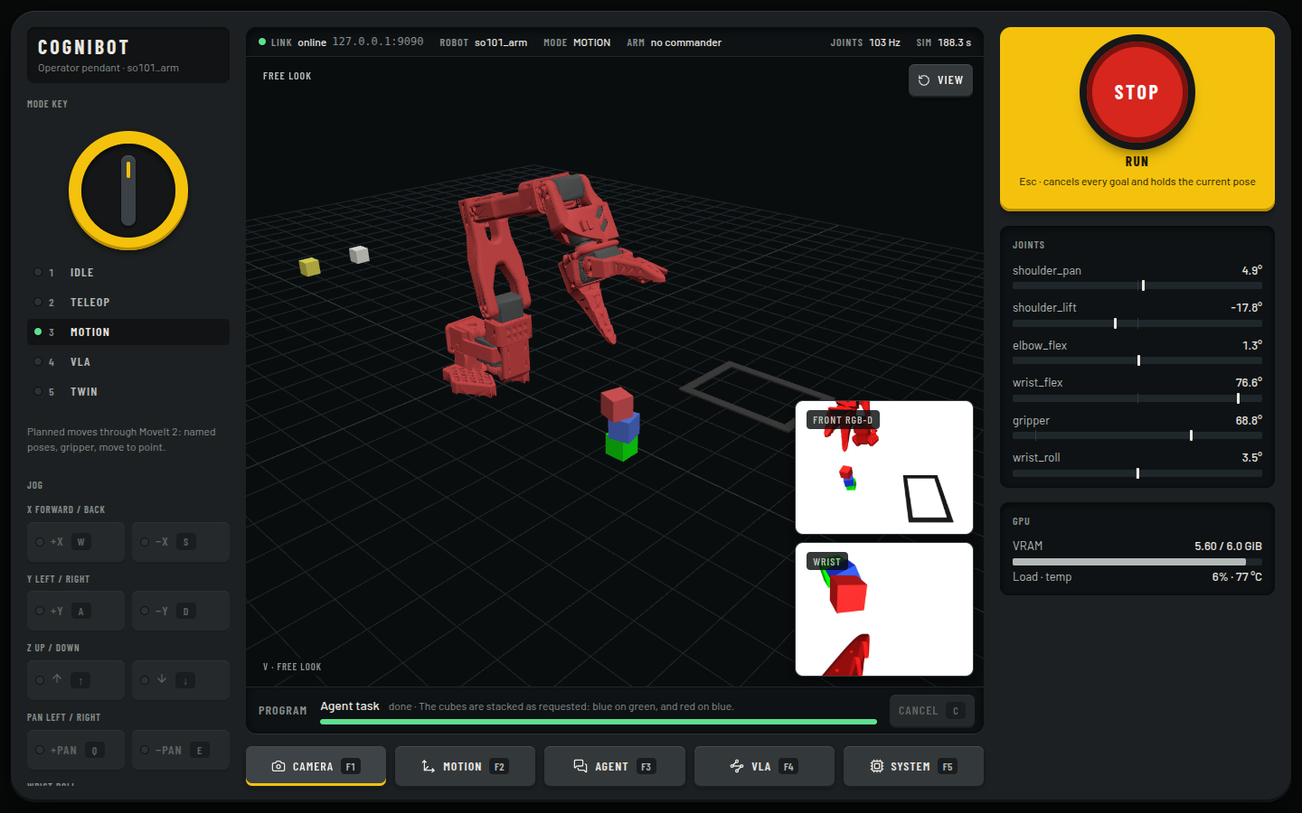
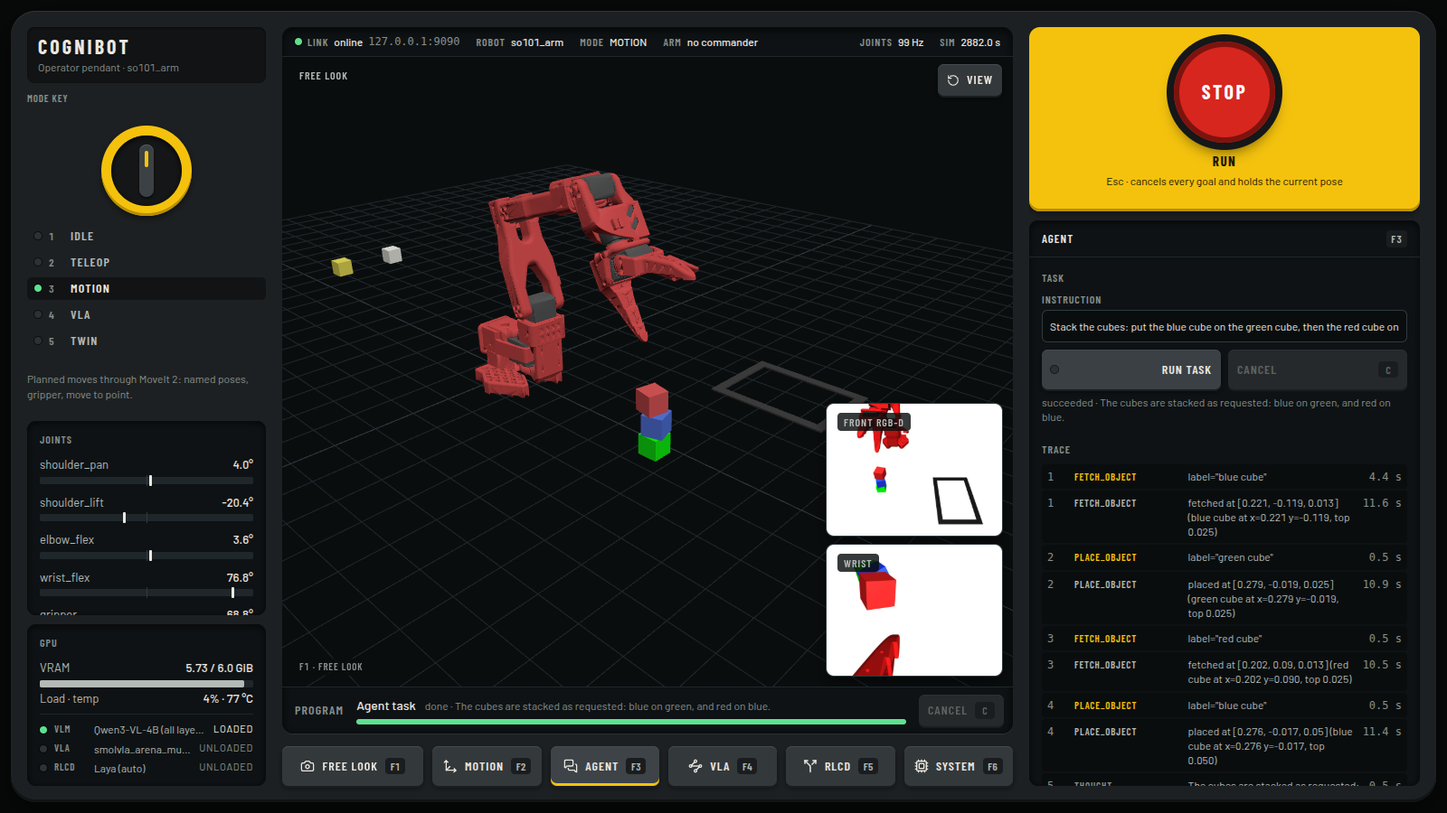
fix(sim): restore the original layout; refresh README and docs
The arena layout (boundary in front, five 3 cm cubes, wider joint
ranges) did not help the arena checkpoint, whose grasps miss our jaws,
and the wider ranges broke three motion tests (the pick-and-place
approach above the rectangle missed by 3.1 cm). The owner asked for
the original scene back.

- Scene: black rectangle at (0.307, 0.197), 2.5 cm green cube in
  front, the other four parked at x = -0.55, original front/wrist
  cameras and joint ranges; front camera TF, RLCD target and cube
  size, drop clearance, dashboard spawn default and cube size, the
  camera test and the scripted recorder follow.
- README: screenshots retaken on the live stack (agent stack, RLCD
  primitives, VLA streaming, motion, system), live ROS graph with the
  RLCD layer and model status, a hard-problem entry on the VLA replay
  investigation, measured results and honest limits updated, Laya in
  layout, status and built-on, service and ADR counts corrected.
- CHANGELOG: 0.3.0 section with merged headings. DEVLOG entry with
  the offline checks, root causes and measurements.

Verified: make test 51/51 (one intermittent safety-filter launch test
failure on an earlier run; passes alone and on rerun); agent stack
52 s, heights 0.012/0.037/0.062 m; RLCD primitives placed the cube in
19 s at (0.295, 0.188).

diff --git a/dashboard/src/views/MotionView.tsx b/dashboard/src/views/MotionView.tsx
@@ -33,7 +33,7 @@ function Offline({ service, start }: { service: string; start: string }) {
 export function MotionView(props: Props) {
   const { moveitOnline, gripperOnline, pickPlaceOnline, resetOnline, groupStates, enabled } = props;
   const [point, setPoint] = useState({ x: 0.3, y: 0.0, z: 0.12 });
-  const [spawnAt, setSpawnAt] = useState({ x: 0.1, y: -0.18 });
+  const [spawnAt, setSpawnAt] = useState({ x: 0.27, y: -0.02 });
   const arm = groupStates.filter((s) => s.group === MOVEIT.arm);
   const gripper = groupStates.filter((s) => s.group === MOVEIT.gripper);
   const axes = ["x", "y", "z"] as const;

diff --git a/dashboard/src/config.ts b/dashboard/src/config.ts
@@ -77,6 +77,6 @@ export const CUBES = ["green", "red", "blue", "yellow", "white"] as const;
 export type CubeColor = (typeof CUBES)[number];
 export const cubeBody = (color: CubeColor) => `${color}_cube`;
 /** Half-size of a cube: spawning rests it on the floor. */
-export const CUBE_HALF = 0.015;
+export const CUBE_HALF = 0.0125;
 /** Where the IK pick-and-place demo drops the cube (static MuJoCo body). */
 export const DEMO = { target: "target" };

diff --git a/cognibot_ws/src/cognibot_sim/test/test_camera_reprojection.py b/cognibot_ws/src/cognibot_sim/test/test_camera_reprojection.py
@@ -2,7 +2,7 @@
 
 Verifies:
 1. /mujoco_camera_plugin/front_rgbd/color and depth are published at >= 15 Hz.
-2. The known green cube in so101_pick_and_place.xml (pos: 0.0974, -0.1839, 0.01495)
+2. The known green cube in so101_pick_and_place.xml (pos: 0.274100, -0.019501, 0.012445)
    reprojects into front_rgbd camera frame within 10 px of the visual green-pixel centroid.
 """
 
@@ -143,21 +143,19 @@ class TestCameraReprojection(unittest.TestCase):
         img = np.frombuffer(last_color_msg.data, dtype=np.uint8).reshape((h, w, 3))
 
         # Find green cube centroid
-        # the arena-toned green (rgba 0.1 0.45 0.15) is dark: find it by hue, not brightness
-        g, r, b = img[:, :, 1].astype(int), img[:, :, 0].astype(int), img[:, :, 2].astype(int)
-        green_mask = (g > r + 40) & (g > b + 30)
+        green_mask = (img[:, :, 1] > 150) & (img[:, :, 0] < 80) & (img[:, :, 2] < 80)
         self.assertTrue(np.any(green_mask), "No green pixels found in camera image for green_cube")
 
         y_idx, x_idx = np.where(green_mask)
         u_centroid = float(np.mean(x_idx))
         v_centroid = float(np.mean(y_idx))
 
-        # Known spawn of green cube in world frame: (0.0974, -0.1839, 0.01495)
+        # Known spawn of green cube in world frame: (0.274100, -0.019501, 0.012445)
         # Camera in world frame: pos=(0.56, 0.08, 0.36),
         # quat=[0.651157, 0.651157, -0.275672, -0.275672]
         from scipy.spatial.transform import Rotation as R
 
-        p_world = np.array([0.0974, -0.1839, 0.01495])
+        p_world = np.array([0.274100, -0.019501, 0.012445])
         t_cam = np.array([0.56, 0.08, 0.36])
         cam_quat = [0.651157, 0.651157, -0.275672, -0.275672]
 

diff --git a/cognibot_ws/src/cognibot_motion/cognibot_motion/pick_place_ik.py b/cognibot_ws/src/cognibot_motion/cognibot_motion/pick_place_ik.py
@@ -21,7 +21,7 @@ ORIENTATION_WEIGHT = 0.1
 # The gripperframe site sits 2 cm outboard of the jaw centre (MODIFICATIONS.md aligned it to the
 # URDF gripper_frame_link), so grasp targets are shifted 2 cm towards the base.
 GRASP_OFFSET = 0.02
-DROP_CLEARANCE = 0.017  # object centre above the surface when released (3 cm cubes + 2 mm)
+DROP_CLEARANCE = 0.012  # object centre above the surface when released
 # Solutions stay this far inside the joint limits: a controller settling exactly on a limit can
 # overshoot by ~1e-4 rad, which MoveIt then rejects as an invalid start state.
 LIMIT_MARGIN = 0.01

diff --git a/README.md b/README.md
@@ -12,12 +12,12 @@ A containerized **ROS 2 Jazzy** manipulation stack that connects a local **visio
 ![MoveIt 2](https://img.shields.io/badge/MoveIt%202-pick__ik-4B8BBE)
 ![LeRobot](https://img.shields.io/badge/LeRobot-0.6%20SmolVLA%20%7C%20ACT-FFD21E)
 ![Qwen3-VL](https://img.shields.io/badge/VLM-Qwen3--VL--4B%20%C2%B7%20llama.cpp-6E56CF)
-![Docker](https://img.shields.io/badge/Docker-8%20services%20%C2%B7%204%20profiles-2496ED?logo=docker&logoColor=white)
+![Docker](https://img.shields.io/badge/Docker-10%20services%20%C2%B7%205%20profiles-2496ED?logo=docker&logoColor=white)
 ![License](https://img.shields.io/badge/license-Apache--2.0-blue)
 
-<img src="docs/media/dashboard-camera.png" alt="CogniBot operator console: free-look 3D mirror of the simulation after the agent stacked three cubes, with the front and wrist camera insets" width="100%">
+<img src="docs/media/dashboard-camera.png" alt="CogniBot operator console: free-look 3D mirror of the simulation after the agent stacked three cubes, with the front and wrist camera insets and the agent's tool trace beside the stop button" width="100%">
 
-<sub>The operator console right after the agent executed <i>"Stack the cubes: put the blue cube on the green cube, then the red cube on top of the blue cube."</i> Free-look 3D mirror (MuJoCo WASM), front RGB-D and wrist cameras, live joints, VRAM gauge, and the latching STOP.</sub>
+<sub>The operator console right after the agent executed <i>"Stack the cubes: put the blue cube on the green cube, then the red cube on top of the blue cube."</i> Free-look 3D mirror (MuJoCo WASM) with the front RGB-D and wrist cameras, the agent's tool trace beside the latching STOP, live joints, and the GPU gauge showing which model holds the GPU.</sub>
 
 </div>
 
@@ -32,19 +32,19 @@ A containerized **ROS 2 Jazzy** manipulation stack that connects a local **visio
 | | |
 |---|---|
 | 🗣 **Language → action** | Type *"put the blue cube on the green cube, then the red cube on top"*. Qwen3-VL-4B looks at the camera, plans with seven robot tools, grounds each object to a 3D point from depth (≈ 1 mm error), and the arm executes through the same servers the operator uses. Every thought, tool call and result streams live to the console. |
-| 🧠 **Learned policies** | LeRobot SmolVLA / ACT checkpoints run in LeRobot's async policy server and stream joint targets at up to 30 Hz, started and stopped from the browser, with the VLM unloaded from the GPU first. |
+| 🧠 **Learned policies** | LeRobot SmolVLA / ACT checkpoints run in LeRobot's async policy server and stream joint targets at up to 30 Hz, started and stopped from the browser. Starting a policy, an agent task or an RLCD run frees the other models from the GPU first, and the gauge shows which one is resident. |
 | 🦾 **Classical motion** | MoveIt 2 with pick_ik for planning, mink differential IK for Cartesian jogging, and scripted top-down pick-and-place with a reach-aware tool lean. |
 | 🛡 **One commander at a time** | A mode manager switches ros2_control controllers so exactly one source (teleop, planner, policy, twin) owns the arm. Streamed commands pass a safety filter enforcing joint range, velocity and a 300 ms dead-man. |
-| 🧮 **Decision layer (RLCD)** | Laya, a 421M calibrated text classifier, decides over the scene as JSON: **Skills** (which skill and object, run by the scripted actions) or **Primitives** (one 2 cm motion per step, jogged through the teleop IK and the safety filter). It never sees an image and never emits a joint angle. Primitives run a full pick-and-place — the model picks every motion (33 ms each on the GPU) while the node reads grasp, drop and placement from physics — and put the cube in the target 8/8 times in simulation, recovering from a missed grasp and a dropped cube. Skills still fail the empty-gripper decision zero-shot ([ADR-0008](docs/adr/0008-laya-decision-layer.md)). |
+| 🧮 **Decision layer (RLCD)** | Laya, a 421M calibrated text classifier, decides over the scene as JSON: **Skills** (which skill and object, run by the scripted actions) or **Primitives** (one 2 cm motion per step, jogged through the teleop IK and the safety filter). It never sees an image and never emits a joint angle. Primitives run a full pick-and-place — the model picks every motion (33 ms each on the GPU) while the node reads grasp, drop and placement from physics — and put the cube in the target 9/9 times in simulation, recovering from a missed grasp and a dropped cube. Skills still fail the empty-gripper decision zero-shot ([ADR-0008](docs/adr/0008-laya-decision-layer.md)). |
 | 🖥 **Teach-pendant console** | A React operator console over rosbridge: the camera viewport never leaves the screen (F1 cycles free look / front / wrist), and F2–F6 load Motion, Agent, VLA, RLCD or System controls beside the STOP button, so the robot is watched while it is operated. Mode key, joints and GPU on the left, STOP on Esc, agent detections drawn on the live feed. |
-| 📦 **Reproducible** | Nine Docker services in five Compose profiles. Every image digest, model revision, pip and npm version is pinned, and a GPU-free CI pipeline runs on every push. `./start.sh` brings it up; Ctrl-C takes everything down. |
+| 📦 **Reproducible** | Ten Docker services (nine in `full`) in five Compose profiles. Every image digest, model revision, pip and npm version is pinned, and a GPU-free CI pipeline runs on every push. `./start.sh` brings it up; Ctrl-C takes everything down. |
 
-<p><img src="docs/media/dashboard-rlcd.png" alt="Operator pendant with the viewport in the centre and the RLCD panel under the stop button"><br><sub><b>The pendant.</b> The viewport never leaves the centre (F1 cycles free look, front and wrist); F2–F6 load a control panel under STOP. Here the RLCD panel runs a <b>Primitives</b> pick-and-place in TELEOP: the cube is in the gripper (wrist camera) on its way to the black rectangle, and each decision is shown with every option the model scored.</sub></p>
+<p><img src="docs/media/dashboard-rlcd.png" alt="Operator pendant with the viewport in the centre and the RLCD panel under the stop button"><br><sub><b>The pendant.</b> The viewport never leaves the centre (F1 cycles free look, front and wrist); F2–F6 load a control panel under STOP. Here the RLCD panel runs a <b>Primitives</b> pick-and-place in TELEOP: the gripper is closing on the green cube (wrist camera), and each decision is listed with every option the model scored and whether it acted.</sub></p>
 
 <table>
 <tr>
-<td width="50%"><img src="docs/media/dashboard-agent-done.png" alt="Agent panel with the tool-call trace for a double stack"><br><sub><b>Agent panel.</b> The model's plan as it ran: <code>fetch_object("blue cube")</code> → <code>place_object("green cube")</code> → <code>fetch_object("red cube")</code> → <code>place_object("blue cube")</code>, with per-step model and tool latency. The grounded box is drawn on the front camera.</sub></td>
-<td width="50%"><img src="docs/media/dashboard-vla.png" alt="VLA panel streaming a SmolVLA policy"><br><sub><b>VLA panel.</b> A SmolVLA checkpoint streaming through the safety filter: mode holder, command rate, target vs. actual joint angles, and Start/Stop wired to a ROS 2 action.</sub></td>
+<td width="50%"><img src="docs/media/dashboard-agent-done.png" alt="Agent panel with the tool-call trace for a double stack"><br><sub><b>Agent panel.</b> The finished stack and the model's plan as it ran: <code>fetch_object("blue cube")</code> → <code>place_object("green cube")</code> → <code>fetch_object("red cube")</code> → <code>place_object("blue cube")</code>, with per-step model and tool latency. The grounded box is drawn on the front camera.</sub></td>
+<td width="50%"><img src="docs/media/dashboard-vla.png" alt="VLA panel streaming a SmolVLA policy"><br><sub><b>VLA panel.</b> A SmolVLA checkpoint streaming at 28.5 Hz through the safety filter: mode holder, command rate, target vs. actual joint angles, and Start/Stop wired to a ROS 2 action. The GPU gauge shows the VLM unloaded to make room for the policy.</sub></td>
 </tr>
 <tr>
 <td width="50%"><img src="docs/media/dashboard-motion.png" alt="Motion panel with the cube spawner and free look"><br><sub><b>Motion panel.</b> MoveIt named poses, gripper and move-to-point, scripted pick-and-place, and a cube spawner (colour plus x, y) for building test scenes live.</sub></td>
@@ -82,13 +82,14 @@ Every container shares the host network with **CycloneDDS pinned to localhost** 
 /robot_state_publisher         /gpu_monitor                 /move_group
 /mode_manager                  /safety_filter               /mink_teleop
 /pick_place_server             /vlm_agent                   /skill_executor
-/rosbridge_websocket           /web_video_server
+/laya_decision                 /rosbridge_websocket         /web_video_server
 
 ## actions
 /cognibot/agent/run_task                              cognibot_interfaces/action/RunAgentTask
 /cognibot/fetch_object                                cognibot_interfaces/action/FetchObject
 /cognibot/place_object                                cognibot_interfaces/action/PlaceObject
 /cognibot/vla/execute_skill                           cognibot_interfaces/action/ExecuteSkill
+/cognibot/rlcd/run_task                               cognibot_interfaces/action/RunDecisionTask
 /move_action                                          moveit_msgs/action/MoveGroup
 /execute_trajectory                                   moveit_msgs/action/ExecuteTrajectory
 /joint_trajectory_controller/follow_joint_trajectory  control_msgs/action/FollowJointTrajectory
@@ -98,6 +99,8 @@ Every container shares the host network with **CycloneDDS pinned to localhost** 
 /cognibot/set_mode                                    cognibot_interfaces/srv/SetControlMode
 /cognibot/vlm/get_object_coordinates                  cognibot_interfaces/srv/GetObjectCoordinates
 /cognibot/sim/reset_objects                           std_srvs/srv/Trigger
+/cognibot/rlcd/decide                                 cognibot_interfaces/srv/Decide
+/cognibot/rlcd/unload                                 std_srvs/srv/Trigger
 /controller_manager/switch_controller                 controller_manager_msgs/srv/SwitchController
 /mujoco_ros2_control_node/set_free_joint_state        mujoco_ros2_control_msgs/srv/SetFreeJointState
 
@@ -110,9 +113,11 @@ Every container shares the host network with **CycloneDDS pinned to localhost** 
 /cognibot/agent/detections     cognibot_interfaces/ObjectDetection
 /cognibot/teleop/cmd           cognibot_interfaces/TeleopCommand
 /cognibot/gpu                  cognibot_interfaces/GpuStatus
+/cognibot/models               cognibot_interfaces/ModelStatus         (transient local + 2 s repeat)
+/cognibot/rlcd/decisions       cognibot_interfaces/Decision
 /joint_states                  sensor_msgs/JointState                  average rate: 99.96 Hz
 /object_poses/free_joint_states mujoco_ros2_control_msgs/FreeJointStateArray
-/mujoco_camera_plugin/front_rgbd/{color,depth,camera_info}
+/mujoco_camera_plugin/{front_rgbd,wrist_cam}/{color,depth,camera_info}
 ```
 
 The full contract, including message definitions, is in [docs/ROS_INTERFACES.md](docs/ROS_INTERFACES.md). Interfaces change doc-first, in the same commit as the `.msg`/`.srv`/`.action` file.
@@ -239,13 +244,20 @@ The simulator with cameras (≈ 0.6 GB), Qwen3-VL-4B (≈ 4 GB) and a SmolVLA se
 </details>
 
 <details>
-<summary><b>7. More, briefly</b></summary>
+<summary><b>7. A VLA that could not have succeeded, found by replay instead of trial and error</b></summary>
+
+The arena-trained SmolVLA checkpoint moved the arm but never lifted a cube. Rather than keep tuning the scene, each link was measured offline. **(a)** Fed its own training frames through its own processors, the policy reproduces the recorded actions (2.87° mean error over a 50-step chunk), so the checkpoint and units are right. **(b)** LeRobot's async server first resizes every frame to the checkpoint's declared image shape, 256×256 inherited from `smolvla_base`, although it trained on 640×480. The squashed frames raised the error to 4.66°. **Fix:** the local checkpoint variant declares the trained shape. **(c)** Our renders at the same joint states give 2.96°, so what the policy sees is no longer the gap. **(d)** Replaying the dataset's *own teacher actions* in our sim tracked every joint within about 1° yet touched no cube: at each recorded grasp the cube sits 1.85 cm from our jaw centre. A fit over 2,820 grasps points to a ~90° wrist-roll convention difference in the (unpublished) generator. That is why the checkpoint cannot solve our scene, and it would have taken a guess to find by trial and error.
+</details>
+
+<details>
+<summary><b>8. More, briefly</b></summary>
 
 - **MoveItPy segfaults** after installing ML packages: apt-built extensions link NumPy 1.26's ABI, so the core venv pins 1.26.4 and LeRobot (NumPy 2) lives in a separate image.
 - **Model download killed mid-flight:** llama-swap's 5-minute health check terminated `llama-server -hf` during a 2.5 GB download. Models are now pre-fetched at a pinned revision.
 - **Cube jitter in the browser:** arm and object poses arrive on separate rosbridge queues. Both are buffered and interpolated at a common simulation timestamp.
 - **Console locked in VLA:** direct VLA → MOTION is not allowed by the mode table. Clients retry through IDLE instead of loosening the safety contract.
 - **Launch tests flaking:** a running simulation on the same DDS domain made controller tests fail; tests run with the stack down.
+- **GPU gauge showing one model of three:** three latched publishers share `/cognibot/models`, and rosbridge's depth-1 reader keeps a single sample. Each publisher now repeats its status every 2 s.
 </details>
 
 ## Measured results
@@ -255,14 +267,16 @@ ASUS TUF F15: RTX 3060 Laptop (6 GB), Intel i5-11400H (6 cores), 40 GB RAM, with
 | What | Result |
 |---|---|
 | Agent: *"pick up the green cube and place it inside the black rectangle"* | **4/4** succeeded (including a reworded prompt and a different cube colour), ≈ 25 s per task |
-| Agent: three-cube stack (blue on green, red on blue) | **3/3** succeeded, ≈ 48 s; final heights 0.012 / 0.037 / 0.062 m |
+| Agent: three-cube stack (blue on green, red on blue) | **4/5** succeeded, ≈ 48–52 s; final heights 0.012 / 0.037 / 0.062 m (one run stacked the wrong cubes) |
+| RLCD Primitives: *"put the green cube on the black rectangle"* | **9/9** placed, ≈ 19 s per run, 33 ms per decision on the GPU; recovers from a missed grasp and a dropped cube |
 | Grounding error, 25 mm cube, oblique RGB-D | **≈ 1 mm** (top-face slab) vs 9 mm (box centre + median depth) |
 | Qwen3-VL-4B Q4_K_M, turn with image + tool schema | GPU **3.0 s**, 1212 tok/s prompt, **66.6 tok/s** generation · hybrid 6.2 s / 7.9 tok/s · CPU 15.2 s / 4.0 tok/s |
 | Policy streaming through the safety filter | 22–30 Hz commands; ACT inference 11 ms per 50-action chunk; SmolVLA (uncompiled) 331 ms per chunk, ≈ 2 GB VRAM |
+| SmolVLA arena checkpoint, open loop on its training frames | 50-step chunk error 2.87° (native 640×480) vs 4.66° (the server's old 256×256 squash); 2.96° on our renders at the same states |
 | Simulation | `/joint_states` 99.96 Hz, cameras 640×480 at ≥ 15 Hz, headless on EGL |
-| Tests | 49 ROS 2 tests (unit + launch_testing, GPU) · 29 dashboard unit tests · 19 agent/VLA tests in-image · GPU-free CI on every push |
+| Tests | 51 ROS 2 tests (unit + launch_testing, GPU) · 40 dashboard unit tests · 69 agent/VLA/RLCD tests in-image (vlm 17, vla 6 + LeRobot plugin 8, laya 38) · GPU-free CI on every push |
 
-**Honest limits.** None of the ~140 community SmolVLA/ACT SO-101 checkpoints I surveyed completes *this* scene's task, because they were trained with the camera on the opposite side of the table. The policy pipeline is verified end to end, but a policy that solves the scene needs a matching camera or a fine-tune (a scripted episode recorder is included). The safety filter enforces joint limits, velocity and a dead-man today; sphere-based collision checking is the next milestone.
+**Honest limits.** No community SmolVLA/ACT SO-101 checkpoint completes *this* scene's task. Most of the ~140 surveyed were trained with the camera on the opposite side of the table. The one trained in a matching MuJoCo arena sees our frames correctly, but its recorded grasps put the cube 1.85 cm from our jaws (a wrist-roll convention difference in its unpublished generator). The policy pipeline is verified end to end; a policy that solves the scene needs a fine-tune on this robot model (a scripted episode recorder is included). The safety filter enforces joint limits, velocity and a dead-man today; sphere-based collision checking is the next milestone.
 
 ## Quick start (Docker)
 
@@ -311,7 +325,7 @@ The centre screen always shows the robot; the soft keys only change what is besi
 
 ```text
 cognibot_ws/
-  docker/                 Dockerfile (interfaces · core · vlm · vla · tools), compose, CycloneDDS, llama-swap config
+  docker/                 Dockerfile (interfaces · core · vlm · vla · laya · tools), compose, CycloneDDS, llama-swap and Laya downloads
   src/
     cognibot_interfaces/  msgs · srvs · actions (AgentEvent, ControlMode, RunAgentTask, ExecuteSkill, FetchObject …)
     cognibot_common/      robot registry, QoS presets, MJCF tinting, GPU monitor
@@ -320,6 +334,7 @@ cognibot_ws/
     cognibot_teleop/      mink_teleop and pure teleop math
     cognibot_vlm/         grounding, tool schemas, agent loop, vlm_agent node, prompts
     cognibot_vla/         skill_executor, LeRobot robot plugin, checkpoint + episode scripts
+    cognibot_laya/        RLCD decision layer: scene → JSON, typed questions, pick-and-place stages, laya_decision node
     cognibot_bringup/     launch composition per service
   third_party.repos       vcstool pins for upstream ROS sources
 dashboard/                Vite + React + TypeScript operator console (roslibjs, three.js, MuJoCo WASM)
@@ -336,9 +351,10 @@ start.sh · Makefile       one-command start/stop and developer targets
 | P2 | MoveIt 2 + pick_ik, mink teleop, mode manager, safety filter, pick-and-place | ✅ working · collision spheres and REACH study next |
 | P3 | Teach-pendant web console | ✅ working · accessibility polish open |
 | P4 | Qwen3-VL tool-calling agent with 3D grounding | ✅ working in simulation · 30-scene evaluation open |
-| P5 | LeRobot SmolVLA/ACT inference with a VRAM handoff | 🟡 pipeline verified · no checkpoint yet solves this scene |
+| P5 | LeRobot SmolVLA/ACT inference with a VRAM handoff | 🟡 pipeline verified · no checkpoint yet solves this scene (needs a fine-tune) |
 | P6 | Digital twin with a real SO-101 (feetech_ros2_driver) | ⏳ planned |
 | P7 | Benchmarks, demo video, v1.0 | ⏳ planned |
+| P8 | RLCD decision layer (Laya): Skills and Primitives tracks | ✅ Primitives pick-and-place working · Skills weak zero-shot |
 
 Details: [PROJECT_PLAN](docs/PROJECT_PLAN.md) · [PROJECT_SCOPE](docs/PROJECT_SCOPE.md) · [CHANGELOG](CHANGELOG.md)
 
@@ -349,13 +365,13 @@ Details: [PROJECT_PLAN](docs/PROJECT_PLAN.md) · [PROJECT_SCOPE](docs/PROJECT_SC
 | [ARCHITECTURE](docs/ARCHITECTURE.md) | Services, packages, robot registry, control modes, data flows, safety geometry, frames |
 | [ROS_INTERFACES](docs/ROS_INTERFACES.md) | Every topic, service and action, with the custom message definitions |
 | [DEVLOG](docs/DEVLOG.md) | Engineering log: problems with root causes, decision trees, measurements |
-| [ADRs](docs/adr/README.md) | Seven architecture decision records |
+| [ADRs](docs/adr/README.md) | Eight architecture decision records |
 | [INTEGRATIONS](docs/INTEGRATIONS.md) | Every upstream component with its pin and the alternatives considered |
 | [VRAM_BUDGET](docs/VRAM_BUDGET.md) · [NETWORKING](docs/NETWORKING.md) · [SETUP](docs/SETUP.md) | GPU budget, DDS/ports/QoS, host preparation |
 
 ## Built on
 
-[MuJoCo](https://github.com/google-deepmind/mujoco) & [Menagerie](https://github.com/google-deepmind/mujoco_menagerie) · [mujoco_ros2_control](https://github.com/ros-controls/mujoco_ros2_control) · [so101-nexus](https://github.com/johnsutor/so101-nexus) · [MoveIt 2](https://moveit.ai) · [pick_ik](https://github.com/PickNikRobotics/pick_ik) · [mink](https://github.com/kevinzakka/mink) · [LeRobot](https://github.com/huggingface/lerobot) · [llama.cpp](https://github.com/ggml-org/llama.cpp) · [llama-swap](https://github.com/mostlygeek/llama-swap) · [Qwen3-VL](https://github.com/QwenLM/Qwen3-VL) · [rosbridge_suite](https://github.com/RobotWebTools/rosbridge_suite) · [roslibjs](https://github.com/RobotWebTools/roslibjs) · [three.js](https://threejs.org). Licenses: [THIRD_PARTY_NOTICES.md](THIRD_PARTY_NOTICES.md).
+[MuJoCo](https://github.com/google-deepmind/mujoco) & [Menagerie](https://github.com/google-deepmind/mujoco_menagerie) · [mujoco_ros2_control](https://github.com/ros-controls/mujoco_ros2_control) · [so101-nexus](https://github.com/johnsutor/so101-nexus) · [MoveIt 2](https://moveit.ai) · [pick_ik](https://github.com/PickNikRobotics/pick_ik) · [mink](https://github.com/kevinzakka/mink) · [LeRobot](https://github.com/huggingface/lerobot) · [llama.cpp](https://github.com/ggml-org/llama.cpp) · [llama-swap](https://github.com/mostlygeek/llama-swap) · [Qwen3-VL](https://github.com/QwenLM/Qwen3-VL) · [Laya](https://github.com/NandhaKishorM/laya) · [rosbridge_suite](https://github.com/RobotWebTools/rosbridge_suite) · [roslibjs](https://github.com/RobotWebTools/roslibjs) · [three.js](https://threejs.org). Licenses: [THIRD_PARTY_NOTICES.md](THIRD_PARTY_NOTICES.md).
 
 ## License
 

diff --git a/CHANGELOG.md b/CHANGELOG.md
@@ -6,19 +6,10 @@ The engineering narrative (problems, root causes, decision trees) lives in [docs
 
 ## [Unreleased]
 
-### Changed
-- Simulation scene now reproduces the SmolVLA arena the VLA checkpoint was trained in: a `side_cam` at the training camera's pose (solved from its frames), the black boundary centred in front of the robot at the dataset's size, five 3 cm cubes in a training layout, wider wrist/shoulder ranges; the VLA client sends `side_cam` as camera1, converts the gripper to the dataset's units, starts from the dataset's start pose, and its time budget counts acting time only. (The policy does not complete the task yet — see DEVLOG.)
-- GPU gauge lists which model (VLM, VLA policy, RLCD/Laya) is loaded; a banner shows while models load or unload, and each path frees the others' models before it starts.
-- Dashboard layout: the camera viewport stays on screen at all times and **F1** cycles it (Free look → Front → Wrist; V still works). **F2–F6** load the Motion, Agent, VLA, RLCD and System controls into a panel under the stop button, so the robot is watched while it is operated. Joints and GPU moved to the left grip; the on-screen jog keys were removed (keyboard jog is unchanged, and the TELEOP help lists the keys). The agent's detection box is drawn on the viewport's front feed.
-
-### Changed
-- RLCD **Track B is now a full pick-and-place**: the arm parks with the tool pointing down, then the model picks one motion per step through the stages (above the cube, onto it, lift, carry, lower, retreat) while the node reads the cube's state from physics — a missed grasp or a dropped cube is detected and retried. The model sees the cube, gripper and target-area positions. Placed the cube in the black rectangle 8/8 times in simulation.
-- The `laya` service runs on the GPU by default: 33 ms per decision instead of ~0.8 s on the CPU (`LAYA_DEVICE=cpu` still available).
-
-### Fixed
-- RLCD decisions: each track offers only the options that can run in the current state, Track B reads the target's direction as words ("15 cm left, 2 cm up"), objects named in the task are bound directly, Track B runs without a confidence gate behind a stall watchdog, and Track A stops after a repeated action that changed nothing. Measured: Track B motion choices 0/6 → 5/6, Track A steps 5.3 s → 1.1 s.
+## [0.3.0] - 2026-09-22
 
 ### Added
+- `robot_color:=purple` (`ROBOT_COLOR=purple`), the colour of the SmolVLA arena dataset's robot.
 - RLCD decision layer (P8, ADR-0008): `laya` service running Laya, a 421M text decision model, with a pinned checkpoint download; `cognibot_laya` serialises the scene as JSON and answers typed questions with calibrated confidence. Two selectable tracks — **Skills** (a skill and an object per step, run by the existing fetch/place/home actions) and **Primitives** (one 2 cm motion per step, jogged through the teleop IK and the safety filter) — plus a guard that refuses unsafe tasks before the arm moves (its out-of-scope and needs-a-person flags are shown as advisory). Non-English tasks are routed to the multilingual checkpoint.
 - Dashboard RLCD screen (`F5`, System moves to `F6`): track selector, task field, run/stop, and a decision trace showing every option the model scored with its probability, the calibrated confidence and whether the answer acted or escalated.
 - `make rlcd` and the `rlcd` compose profile; `/cognibot/rlcd/run_task`, `/cognibot/rlcd/decisions` and `/cognibot/rlcd/decide`.
@@ -53,6 +44,12 @@ The engineering narrative (problems, root causes, decision trees) lives in [docs
 - Dashboard Motion view *Spawn cube*: pick a colour (green, red, blue, yellow, white) and a floor position; Pick and place acts on the selected cube. The SO-101 scene carries the four extra cubes parked behind the robot.
 
 ### Changed
+- VLA client: per-checkpoint gripper units (`GRIPPER_DEG_PER_UNIT`, `GRIPPER_DEG_OFFSET`), a start pose the arm parks at before a run (`VLA_START_POSE`, default the arena dataset's start clipped to our joint ranges), an optional per-camera blur (`CAMERA_BLUR`), and a time budget that counts acting time only. The SO-101 scene keeps its layout (green cube in front, the other four parked behind the robot, black rectangle at (0.307, 0.197)) and its joint ranges.
+- One camera across the table: the separate `side_cam` is gone and the VLA client sends `front_rgbd` as camera1, which drops a 640×480 colour + depth stream (~43 MB/s).
+- GPU gauge lists which model (VLM, VLA policy, RLCD/Laya) is loaded; a banner shows while models load or unload, and each path frees the others' models before it starts.
+- Dashboard layout: the camera viewport stays on screen at all times and **F1** cycles it (Free look → Front → Wrist; V still works). **F2–F6** load the Motion, Agent, VLA, RLCD and System controls into a panel under the stop button, so the robot is watched while it is operated. Joints and GPU moved to the left grip; the on-screen jog keys were removed (keyboard jog is unchanged, and the TELEOP help lists the keys). The agent's detection box is drawn on the viewport's front feed.
+- RLCD **Track B is now a full pick-and-place**: the arm parks with the tool pointing down, then the model picks one motion per step through the stages (above the cube, onto it, lift, carry, lower, retreat) while the node reads the cube's state from physics — a missed grasp or a dropped cube is detected and retried. The model sees the cube, gripper and target-area positions. Placed the cube in the black rectangle 8/8 times in simulation.
+- The `laya` service runs on the GPU by default: 33 ms per decision instead of ~0.8 s on the CPU (`LAYA_DEVICE=cpu` still available).
 - The scene manipuland is now `green_cube` (was `red_cube`) in both SO-101 and Panda scenes, so red is reserved for the robot.
 - The core image fetches third-party ROS sources from `third_party.repos` instead of the build context; `.dockerignore` added.
 - `make sim-dev` starts only the `sim` service with the viewer; `ROBOT_COLOR` is passed through compose.
@@ -64,6 +61,9 @@ The engineering narrative (problems, root causes, decision trees) lives in [docs
 - SO-101 scene: the blue target disc is now a black rectangle frame named `target` on a light floor, matching the white-table/black-boundary look of community SO-101 datasets.
 
 ### Fixed
+- SmolVLA frames reached the policy squashed to 256×256: LeRobot's async server resizes each frame to the checkpoint's declared image shape, which the arena fine-tune inherited from `smolvla_base` although it trained on 640×480 frames. `download_checkpoints.sh` now declares the trained shape in the local variant; on the dataset's own frames the policy's 50-step chunk error drops from 4.66° to 2.87°.
+- GPU gauge listed only one model after the page loaded: three latched publishers share `/cognibot/models` and rosbridge's depth-1 reader kept one sample. Each publisher now repeats its status every 2 s.
+- RLCD decisions: each track offers only the options that can run in the current state, Track B reads the target's direction as words ("15 cm left, 2 cm up"), objects named in the task are bound directly, Track B runs without a confidence gate behind a stall watchdog, and Track A stops after a repeated action that changed nothing. Measured: Track B motion choices 0/6 → 5/6, Track A steps 5.3 s → 1.1 s.
 - CI `ros` job now installs MuJoCo and third-party sources and runs the GPU-free tests.
 - Core venv pins numpy 1.26.4 so apt ROS extensions (moveit_py) no longer segfault against numpy 2.
 - GUI containers render through NVIDIA PRIME offload instead of software GL on hybrid-graphics laptops.

diff --git a/docs/DEVLOG.md b/docs/DEVLOG.md
@@ -20,6 +20,7 @@ The engineering log of the project: what was done, what broke, why, how it was f
 
 | Date | ID | Title | Type |
 |---|---|---|---|
+| 2026-09-22 | owner request (P5), release | VLA root cause by replay, camera merge, layout restored, model-status heartbeat; v0.3.0 | fix · release |
 | 2026-09-22 | owner request (P5) | VLA arena match: side camera, layout, gripper units, joint ranges; GPU model hand-over | feat (in progress) |
 | 2026-09-22 | owner request | Full-stack control-path test: VLM, VLA, RLCD primitives and skills | test |
 | 2026-09-22 | owner request (P8) | Track B as a full pick-and-place; decisions on the GPU | feat |
@@ -95,6 +96,58 @@ flowchart TD
 ---
 
 # Entries
+
+## 2026-09-22 · owner request (P5), release · VLA root cause by replay, camera merge, layout restored, model-status heartbeat; v0.3.0
+
+**Context:** continue "make the VLA policy work"; the owner asked to stop trial and error and use the official specs and proven checks, to drop a redundant camera stream, then to put the scene back to its original layout, refresh the README and cut a release.
+**Outcome:** ✅ root cause found and documented, the pipeline bug fixed; the arena checkpoint still cannot solve our scene (it needs a fine-tune on this robot model). Scene restored to the original layout. v0.3.0.
+
+### Work log
+- **Official sources checked first.** The checkpoint's model card and the dataset card are the auto-generated templates; the generator (`capstone_arena`) is not public on GitHub or the Hub. The authoritative spec is therefore the checkpoint's own files (`config.json`, `train_config.json`, processors) and the dataset's `meta/info.json` + `meta/generation.json`. LeRobot's SmolVLA docs name `lerobot-rollout --policy.path` (synchronous, the policy's own processors, native frames) as the evaluation path.
+- **Open-loop check (the standard LeRobot sanity test).** Episode-0 frames and states through `make_pre_post_processors` of the checkpoint; compare the predicted 50-step chunk with the recorded next 50 actions (frames 0–120, before the first grasp).
+- **Teacher-action replay.** Episode 0's recorded actions played at 30 Hz into our sim (through the safety filter, and again in plain MuJoCo on the MJCF actuators), cubes at the episode's layout.
+- **Kinematic fit.** 2,820 grasp moments from all 295 episodes: FK of the recorded state must put a tool point on the nearest layout cube; trimmed least squares.
+- **Wrist camera** mount fitted to 32 dataset wrist frames (chamfer on tape/jaw masks, 160×120, multi-start incl. roll about the view axis; held-out frames 5.1 vs fit 6.7). Kept out of the final scene with the layout restore.
+- **Camera merge (owner: cut the redundant stream).** `front_rgbd` and `side_cam` looked at the table from nearly the same place; `side_cam` is removed and the VLA client sends `front_rgbd` as camera1. Every camera publishes colour and depth, so this drops ≈ 43 MB/s.
+- **Plugin:** `camera_blur` per camera (the arena frames always had ≥ 0.5 px blur; exposure/contrast/colour were randomised per episode in `generation.json` `visual`, so no colour transfer). `robot_color:=purple`.
+- **Layout restored (owner).** Black rectangle at (0.307, 0.197), 2.5 cm green cube in front, the other four parked at x = −0.55, original front and wrist cameras and joint ranges; RLCD target/half extents/cube size, `DROP_CLEARANCE`, dashboard spawn default and cube size, camera test and the scripted recorder follow. `VLA_START_POSE` is the arena start clipped to our ranges (0, −99, 36, 94, 0).
+- **Model-status heartbeat** (see #4) and README screenshots retaken on the live stack.
+
+### Problems → root cause → solution
+| # | Symptom | Root cause | Solution | Evidence |
+|---|---|---|---|---|
+| 1 | Policy frames looked squashed | LeRobot's async server resizes each frame to the checkpoint's declared image shape before SmolVLA's own resize-with-padding; the arena fine-tune kept `smolvla_base`'s 3×256×256 although it trained on 640×480 | `download_checkpoints.sh` writes the trained shape into the local variant | open-loop chunk error 4.66° (squashed) → 2.87° (native) |
+| 2 | Policy never lifted a cube in 0/5 live runs | Not vision: our renders at the recorded states give 2.96° vs 2.87° on the training frames. The teacher's own actions replayed in our sim track every joint within ≈ 1° (mean 0.1–0.8°) yet touch no cube; in plain MuJoCo the jaws close fully (16.3°, even 5.7°) on nothing | Documented; needs a fine-tune on this robot model | At the recorded grasps the cube sits 1.85 cm from our jaw centre (`gripperframe`); joint zero offsets alone leave 22.3 mm, a −88.7° wrist_roll offset brings it to 14.4 mm, yet ±90° replays still lift nothing. Our MJCF matches TheRobotStudio `so101_new_calib.xml` exactly; the generator's model is unpublished |
+| 3 | Wider wrist/shoulder ranges (arena commit) broke 3 of 51 tests | pick_place IK found a different solution: the approach above the rectangle missed by 3.1 cm; the lean and safety-clamp tests encode the original limits | Ranges restored with the layout | `make test` 51 tests, 3 failures → see Measurements |
+| 4 | GPU gauge listed one model of three after a page load | three latched publishers share `/cognibot/models`; a depth-1 reader (rosbridge) keeps one sample of a keyless topic | each publisher repeats its status every 2 s | gauge shows VLM/VLA/RLCD after reload; hand-over seen live (VLM loaded ↔ VLA/RLCD unloaded) |
+| 5 | Whole-frame colour transfer turned our frames grey | the dataset's colour statistics come from its randomised camera model and a different floor; matching them is meaningless | dropped; blur only | `generation.json` `visual`: exposure 0.88–1.15, contrast 0.8–1.2, blur 0.5–1.4 px per episode |
+
+### Decisions
+#### D1: Keep the arena layout or restore the original?
+```mermaid
+flowchart TD
+  Q{Scene layout} --> A[Arena layout, purple robot]
+  Q --> B[Original layout]
+  A --> A1[✗ the arena checkpoint still cannot grasp here: recorded grasps miss our jaws by 1.85 cm]
+  B --> B1[✓ owner request; VLM, RLCD and scripted paths verified on it; tests green]
+```
+- **Chosen:** original layout, keeping the camera merge, the resize fix, the model heartbeat and the plugin options.
+- **Revisit if:** a checkpoint is fine-tuned on this robot model, or the arena generator is published.
+
+### Measurements
+| Run | Result |
+|---|---|
+| Open loop, arena SmolVLA, 13 approach frames, chunk MAE | training frames 2.87° · squashed 256² 4.66° · our renders purple + blur 2.96° · red 3.80° · our side + their wrist 2.30° · their side + our wrist 2.88° |
+| Teacher replay, episode 0, our sim | tracking mean 0.1–0.8° per joint, p95 ≤ 3.8°; 0 cubes lifted |
+| Agent three-cube stack (original layout) | 1/2: 52 s, heights 0.012 / 0.037 / 0.062 m; the other run stacked the wrong cubes (trace not captured) |
+| RLCD Primitives pick-and-place | 1/1, 19 s, cube at (0.295, 0.188) inside the frame |
+| VLA stream from the dashboard | 28.5 Hz; gauge: VLM unloaded, VLA loaded |
+
+### Open questions / follow-ups
+- [ ] Fine-tune SmolVLA on this robot model with the scripted episode recorder (the only path to a policy that solves the scene).
+- [ ] Capture the trace of the failed agent stack run when it recurs.
+
+---
 
 ## 2026-09-22 · owner request (P5) · VLA arena match: side camera, layout, gripper units, joint ranges; GPU model hand-over
 
